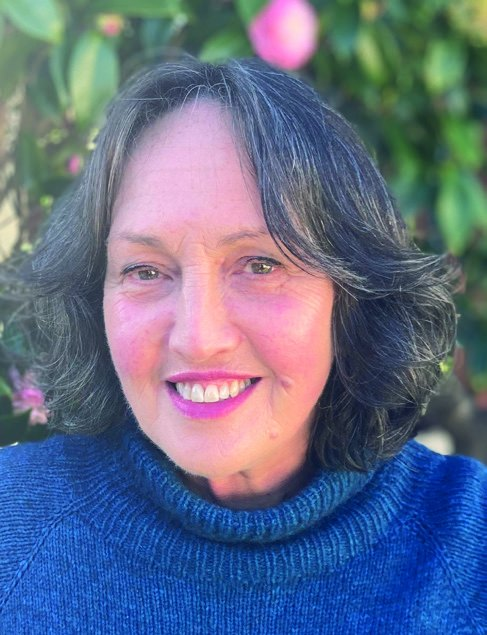
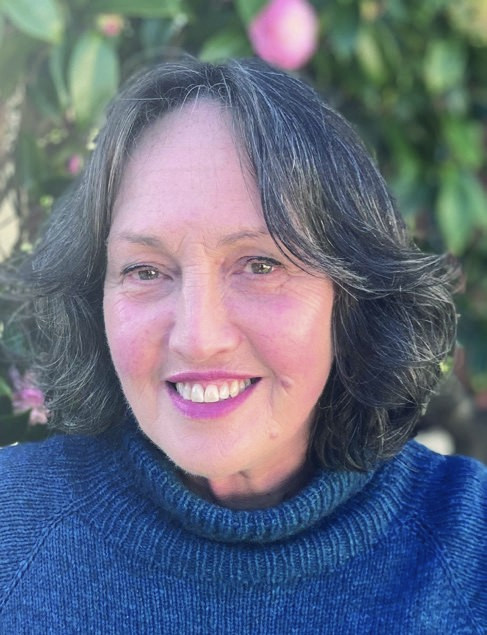
Update crew photo, book description, Diane Brand quote and author photo
- Replace images/crew.jpg with the higher-resolution Moawhango Dam crew
  photograph, cropped to the page's existing 824:610 aspect; update alt
  text and set the three-line caption with credit.
- Replace the About the book text with the five-paragraph description,
  with the book title in italics.
- Restore the full two-paragraph Diane Brand endorsement in Praise; close
  the quotation mark only after the last paragraph of a quote.
- Desaturate images/author.jpg by 30% at the same dimensions.

Claude-Session: https://claude.ai/code/session_01F6TCBvcuxLhevS5LRpu4Y1

diff --git a/index.html b/index.html
@@ -317,7 +317,7 @@
     }
     @media (min-width: 768px) { .quote blockquote { font-size: 1.4rem; } }
     .quote blockquote p::before { content: "\201C"; }
-    .quote blockquote p::after  { content: "\201D"; }
+    .quote blockquote p:last-child::after { content: "\201D"; }
     .quote figcaption {
       font-size: 1rem;
       padding-left: 1.25rem;
@@ -485,8 +485,11 @@
         <p class="label">About the book</p>
         <div class="measure">
           <h2 id="about-heading">About the book</h2>
-          <p class="lead">The book dispels anti-public sector myths about large national infrastructure provision and argues that for nearly a century, the Ministry of Works and Development exemplified a mix of cutting-edge technology, sufficient funding, long-term institutional knowledge, skilled people, and a collective commitment to the public purpose of nation building.</p>
-          <p>A timely reminder of New Zealand's history of exceptional capability in environmentally-friendly engineering, and of the dangers ahead if this expertise continues to languish.</p>
+          <p class="lead">In the early 1980s, New Zealand enjoyed some of the cheapest power prices in the world — the product of hydro-electricity schemes designed and constructed by the Ministry of Works.</p>
+          <p>For over 40 years, this government department overcame complex geological conditions, staff shortages and a constantly shifting political climate to develop a technically sophisticated, largely renewable electricity infrastructure network that produced more than $30 million dollars in annual revenue upon completion and continues to generate 80% of New Zealand's electricity supply.</p>
+          <p>It was a remarkable achievement for a government department that, since it was abolished in 1988, has been portrayed by its detractors as bloated and inefficient.</p>
+          <p>For the first time, <em>Power to the People</em> explores how this agency responded successfully to a post-war electricity crisis, concluding with construction of the Tongariro Power Development and Rangipo underground power station. Through oral histories and extensive research, it captures the sense of mission felt by the men and women who made the department what it was.</p>
+          <p>From this emerges a complex and human narrative that defies the ideological simplicities that ultimately engulfed the Ministry of Works and provides a timely reevaluation of a vital government agency, as New Zealand again faces an urgent infrastructure crisis – this time exacerbated by the effects of climate change.</p>
           <dl class="pub-details">
             <dt>Publication</dt><dd>October 2026</dd>
             <dt>Publisher</dt><dd>Spinning Plates Press</dd>
@@ -496,11 +499,13 @@
         </div>
         <figure class="plate">
           <img src="images/crew.jpg"
-               width="824" height="610" loading="lazy" decoding="async"
-               alt="Colour photograph of a Ministry of Works crew in hard hats standing in front of a concrete dam wall, holding up a sign that reads Moawhango Dam, 120,000 yards of concrete, 28 February 1975">
+               width="1836" height="1359" loading="lazy" decoding="async"
+               alt="Colour photograph of a Ministry of Works concrete crew in hard hats at the Moawhango arch dam, holding up a sign reading Moawhango Dam, 120,000 cubic yards of concrete, 28 February 1975.">
           <figcaption>
             <span class="fig">Photograph</span>
-            <p>The crew at Moawhango Dam, 28 February 1975, marking 120,000 yards of concrete poured.</p>
+            <p>A Ministry of Works concrete crew, Moawhango arch dam, Tongariro Power Development, 1975.<br>
+               Tom Porter (centre, beneath concrete bucket) Tommy Martin (red shirt, sunglasses)<br>
+               Courtesy of Colin McLeod Family</p>
           </figcaption>
         </figure>
       </div>
@@ -514,7 +519,8 @@
           <h2 id="praise-heading">Praise for <em>Power to the People</em></h2>
           <figure class="quote">
             <blockquote>
-              <p>A timely reminder not only of the country's history of exceptional capability in environmentally-friendly engineering but of the dangers ahead if this expertise continues to languish because of political ideology.</p>
+              <p>The book dispels anti-public sector myths about large national infrastructure provision and argues that for nearly a century, the Ministry of Works and Development exemplified a mix of cutting-edge technology, sufficient funding, long-term institutional knowledge, skilled people, and a collective commitment to the public purpose of nation building.</p>
+              <p>A timely reminder of New Zealand's history of exceptional capability in environmentally-friendly engineering, and of the dangers ahead if this expertise continues to languish.</p>
             </blockquote>
             <figcaption>
               <strong>Diane Brand</strong>
